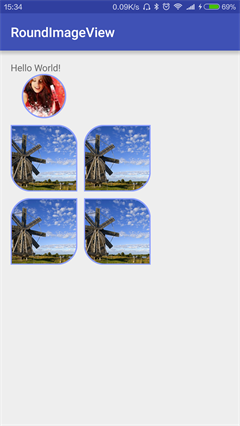
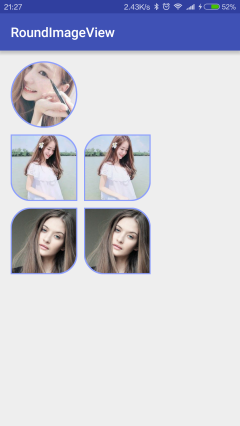
network supported

diff --git a/roundimageview/src/main/java/com/beiing/roundimage/AbsRoundImageView.java b/roundimageview/src/main/java/com/beiing/roundimage/AbsRoundImageView.java
@@ -68,8 +68,6 @@ public abstract class AbsRoundImageView extends ImageView {
 
     private void init() {
         mBitmapPaint = new Paint(Paint.ANTI_ALIAS_FLAG);
-        mBitmapPaint.setStyle(Paint.Style.FILL);
-        mBitmapPaint.setColor(borderColor);
 
         rect = new RectF();
         roundPath = new Path();
@@ -85,14 +83,26 @@ public abstract class AbsRoundImageView extends ImageView {
     protected void onLayout(boolean changed, int left, int top, int right, int bottom) {
         super.onLayout(changed, left, top, right, bottom);
         if(changed){
-            initRoundPath();
             initBorderPath();
+            initRoundPath();
         }
     }
 
-    protected abstract void initRoundPath();
+    /**
+     * 获取图片区域纯颜色Bitmap
+     * @return
+     */
+    protected abstract Bitmap getRoundBitmap();
 
+    /**
+     * 初始化边框Path
+     */
     protected abstract void initBorderPath();
+
+    /**
+     * 初始化图片区域Path
+     */
+    protected abstract void initRoundPath();
 
     private void drawBorder(Canvas canvas) {
         borderPaint.setStyle(Paint.Style.STROKE);
@@ -102,24 +112,23 @@ public abstract class AbsRoundImageView extends ImageView {
 
     @Override
     protected void onDraw(Canvas canvas) {
-        Drawable mDrawable = getDrawable();
-        if(!isInEditMode() && mDrawable != null){
-//            Bitmap bitmap = getBitmapFromDrawable(mDrawable);
-            //拿到Drawable
-            Drawable drawable = getDrawable();
-            //获取drawable的宽和高
-            int dWidth = drawable.getIntrinsicWidth();
-            int dHeight = drawable.getIntrinsicHeight();
-            Bitmap bitmap;
-            if (drawable != null) {
-                //创建bitmap
-                bitmap = Bitmap.createBitmap(getWidth(), getHeight(),
-                        Bitmap.Config.ARGB_8888);
-                float scale = 1.0f;
-                //创建画布
-                Canvas drawCanvas = new Canvas(bitmap);
-                drawable.draw(drawCanvas);
+        drawImage(canvas);
+        drawBorder(canvas);
+    }
 
+    private void drawImage(Canvas canvas) {
+        Drawable drawable = getDrawable();
+        if(!isInEditMode() && drawable != null) {
+            try {
+                Bitmap bitmap;
+                if (drawable instanceof ColorDrawable) {
+                    bitmap = Bitmap.createBitmap(2, 2, Bitmap.Config.ARGB_8888);
+                } else {
+                    bitmap = Bitmap.createBitmap(drawable.getIntrinsicWidth(), drawable.getIntrinsicHeight(), Bitmap.Config.ARGB_8888);
+                }
+                Canvas drawCanvas = new Canvas(bitmap);
+                drawable.setBounds(0, 0, drawCanvas.getWidth(), drawCanvas.getHeight());
+                drawable.draw(drawCanvas);
 
                 Bitmap roundBm = getRoundBitmap();
                 mBitmapPaint.reset();
@@ -128,116 +137,12 @@ public abstract class AbsRoundImageView extends ImageView {
                 //绘制形状
                 drawCanvas.drawBitmap(roundBm, 0, 0, mBitmapPaint);
                 mBitmapPaint.setXfermode(null);
-                //将准备好的bitmap绘制出来
+                //绘制图片
                 canvas.drawBitmap(bitmap, 0, 0, mBitmapPaint);
+            } catch (Exception e) {
+                e.printStackTrace();
             }
-
-
-
-//            //1.绘制形状
-//            canvas.drawARGB(0, 0, 0, 0);
-//            final int color = 0xffffffff;
-//            mBitmapPaint.setColor(color);
-//            canvas.drawPath(roundPath, mBitmapPaint);
-//
-//            mBitmapPaint.reset();
-//            mBitmapPaint.setFilterBitmap(false);
-//            mBitmapPaint.setXfermode(xFermode);
-//
-//            //2.绘制图片
-////            canvas.drawBitmap(bitmap, 0, 0,  mBitmapPaint);
-//
-//            mBitmapPaint.setXfermode(null);
-
-
-            drawBorder(canvas);
         }
-
-
-
-
-
-//        if (!isInEditMode() && mDrawable instanceof BitmapDrawable) {
-//            Paint paint = ((BitmapDrawable) mDrawable).getPaint();
-//            Rect bitmapBounds = mDrawable.getBounds();
-//            rect.set(bitmapBounds);
-//            int saveCount = canvas.saveLayer(rect, null,
-//                    Canvas.MATRIX_SAVE_FLAG |
-//                            Canvas.CLIP_SAVE_FLAG |
-//                            Canvas.HAS_ALPHA_LAYER_SAVE_FLAG |
-//                            Canvas.FULL_COLOR_LAYER_SAVE_FLAG |
-//                            Canvas.CLIP_TO_LAYER_SAVE_FLAG);
-//            getImageMatrix().mapRect(rect);
-//
-//            //src-in : 显示重叠部分上层  ->先绘制形状，再绘制图片
-//            paint.setAntiAlias(true);
-//            canvas.drawARGB(0, 0, 0, 0);
-//            final int color = 0xffffffff;
-//            paint.setColor(color);
-//            //1.绘制形状
-//            canvas.drawPath(roundPath, paint);
-//            Xfermode oldMode = paint.getXfermode();
-//            paint.setXfermode(xFermode);
-//            //2.绘制图片
-//            super.onDraw(canvas);
-//            paint.setXfermode(oldMode);
-//            canvas.restoreToCount(saveCount);
-//
-//            //绘制边框
-//            drawBorder(canvas);
-//        }
-
-
-    }
-
-
-    private Bitmap getBitmapFromDrawable(Drawable drawable) {
-        if (drawable == null) {
-            return null;
-        }
-
-        if (drawable instanceof BitmapDrawable) {
-            return ((BitmapDrawable) drawable).getBitmap();
-        }
-
-        try {
-            Bitmap bitmap;
-            if (drawable instanceof ColorDrawable) {
-                bitmap = Bitmap.createBitmap(2, 2, Bitmap.Config.ARGB_8888);
-            } else {
-                bitmap = Bitmap.createBitmap(drawable.getIntrinsicWidth(), drawable.getIntrinsicHeight(), Bitmap.Config.ARGB_8888);
-            }
-            Canvas canvas = new Canvas(bitmap);
-            drawable.setBounds(0, 0, canvas.getWidth(), canvas.getHeight());
-            drawable.draw(canvas);
-            return bitmap;
-        } catch (Exception e) {
-            e.printStackTrace();
-            return null;
-        }
-    }
-
-    /**
-     * 绘制形状
-     * @return
-     */
-    public Bitmap getRoundBitmap()
-    {
-        Bitmap bitmap = Bitmap.createBitmap(getWidth(), getHeight(),
-                Bitmap.Config.ARGB_8888);
-        Canvas canvas = new Canvas(bitmap);
-        Paint paint = new Paint(Paint.ANTI_ALIAS_FLAG);
-        paint.setColor(Color.BLACK);
-
-        canvas.drawCircle(getWidth() / 2, getWidth() / 2, getWidth() / 2,
-                    paint);
-
-        return bitmap;
-    }
-
-    public float dp2px(float dpValue){
-        float density = getContext().getResources().getDisplayMetrics().density;
-        return dpValue * density;
     }
 
 }

diff --git a/app/src/main/java/com/beiing/roundimage/MainActivity.java b/app/src/main/java/com/beiing/roundimage/MainActivity.java
@@ -2,23 +2,35 @@ package com.beiing.roundimage;
 
 import android.support.v7.app.AppCompatActivity;
 import android.os.Bundle;
+import android.widget.ImageView;
 
 import com.bumptech.glide.Glide;
+import com.squareup.picasso.Picasso;
+
+import org.xutils.image.ImageOptions;
+import org.xutils.x;
 
 public class MainActivity extends AppCompatActivity {
 
-    CircleImageView circleImageView;
+    CircleImageView circleImageViewGlide;
 
-    RoundImageView roundImageView;
+    RoundImageView roundImageViewPicasso;
+    RoundImageView roundImageViewXutils;
 
     @Override
     protected void onCreate(Bundle savedInstanceState) {
         super.onCreate(savedInstanceState);
         setContentView(R.layout.activity_main);
 
-        circleImageView = (CircleImageView) findViewById(R.id.circle_image);
-        roundImageView = (RoundImageView) findViewById(R.id.round_image);
+        circleImageViewGlide = (CircleImageView) findViewById(R.id.circle_image_glide);
+        roundImageViewPicasso = (RoundImageView) findViewById(R.id.round_image_picasso);
+        roundImageViewXutils = (RoundImageView) findViewById(R.id.round_image_xutils);
 
-        Glide.with(this).load(R.mipmap.head).into(circleImageView);
+        Glide.with(this).load("http://img2.imgtn.bdimg.com/it/u=1939271907,257307689&fm=21&gp=0.jpg").into(circleImageViewGlide);
+
+        Picasso.with(this).load("http://img0.imgtn.bdimg.com/it/u=2263418180,3668836868&fm=206&gp=0.jpg").fit().into(roundImageViewPicasso);
+
+        x.image().bind(roundImageViewXutils, "http://img0.imgtn.bdimg.com/it/u=2263418180,3668836868&fm=206&gp=0.jpg",
+                new ImageOptions.Builder().setCrop(true).build());
     }
 }

diff --git a/roundimageview/src/main/java/com/beiing/roundimage/CircleImageView.java b/roundimageview/src/main/java/com/beiing/roundimage/CircleImageView.java
@@ -2,6 +2,10 @@ package com.beiing.roundimage;
 
 import android.content.Context;
 import android.content.res.TypedArray;
+import android.graphics.Bitmap;
+import android.graphics.Canvas;
+import android.graphics.Color;
+import android.graphics.Paint;
 import android.graphics.Path;
 import android.util.AttributeSet;
 
@@ -23,7 +27,6 @@ public class CircleImageView extends AbsRoundImageView {
 
     public CircleImageView(Context context, AttributeSet attrs, int defStyleAttr) {
         super(context, attrs, defStyleAttr);
-
         super.initAttrs(attrs);
     }
 
@@ -32,6 +35,17 @@ public class CircleImageView extends AbsRoundImageView {
         super.onMeasure(widthMeasureSpec, heightMeasureSpec);
         int width = Math.max(getMeasuredWidth(), getMeasuredHeight());
         setMeasuredDimension(width, width);
+    }
+
+    @Override
+    protected Bitmap getRoundBitmap() {
+        Bitmap bitmap = Bitmap.createBitmap(getWidth(), getHeight(),
+                Bitmap.Config.ARGB_8888);
+        Canvas canvas = new Canvas(bitmap);
+        Paint paint = new Paint(Paint.ANTI_ALIAS_FLAG);
+        paint.setColor(Color.WHITE);
+        canvas.drawPath(roundPath, paint);
+        return bitmap;
     }
 
     @Override

diff --git a/roundimageview/src/main/java/com/beiing/roundimage/RoundImageView.java b/roundimageview/src/main/java/com/beiing/roundimage/RoundImageView.java
@@ -2,6 +2,10 @@ package com.beiing.roundimage;
 
 import android.content.Context;
 import android.content.res.TypedArray;
+import android.graphics.Bitmap;
+import android.graphics.Canvas;
+import android.graphics.Color;
+import android.graphics.Paint;
 import android.graphics.Path;
 import android.graphics.RectF;
 import android.util.AttributeSet;
@@ -34,7 +38,6 @@ public class RoundImageView extends AbsRoundImageView {
 
     public RoundImageView(Context context, AttributeSet attrs, int defStyleAttr) {
         super(context, attrs, defStyleAttr);
-
         initAttrs(attrs);
     }
 
@@ -48,6 +51,17 @@ public class RoundImageView extends AbsRoundImageView {
             leftBottomRadius = ta.getDimension(R.styleable.RoundImageView_leftBottomRadius, 0);
             ta.recycle();
         }
+    }
+
+    @Override
+    protected Bitmap getRoundBitmap() {
+        Bitmap bitmap = Bitmap.createBitmap(getWidth(), getHeight(),
+                Bitmap.Config.ARGB_8888);
+        Canvas canvas = new Canvas(bitmap);
+        Paint paint = new Paint(Paint.ANTI_ALIAS_FLAG);
+        paint.setColor(Color.WHITE);
+        canvas.drawPath(roundPath, paint);
+        return bitmap;
     }
 
     @Override

diff --git a/app/src/main/java/com/beiing/roundimage/App.java b/app/src/main/java/com/beiing/roundimage/App.java
@@ -1,0 +1,18 @@
+package com.beiing.roundimage;
+
+import android.app.Application;
+
+import org.xutils.x;
+
+/**
+ * Created by chenliu on 2016/8/22 0022<br/>.
+ * 描述：
+ */
+public class App extends Application {
+
+    @Override
+    public void onCreate() {
+        super.onCreate();
+        x.Ext.init(this);
+    }
+}

diff --git a/README.md b/README.md
@@ -18,6 +18,8 @@
 
 #### 使用
 
+ - #####  布局
+
 ```java
 <com.beiing.roundimage.CircleImageView
         android:layout_width="wrap_content"
@@ -29,7 +31,6 @@
         />
 
 ```
-
 
 ```java
  <com.beiing.roundimage.RoundImageView
@@ -46,6 +47,37 @@
                 />
 
 ```
+
+
+- ##### 测试常见的图片加载库加载
+
+- Glide
+
+```java
+ circleImageViewGlide = (CircleImageView) findViewById(R.id.circle_image_glide);
+ Glide.with(this).load("http://img2.imgtn.bdimg.com/it/u=1939271907,257307689&fm=21&gp=0.jpg").into(circleImageViewGlide);
+
+```
+
+- Picasso
+
+```java
+roundImageViewPicasso = (RoundImageView) findViewById(R.id.round_image_picasso);
+ Picasso.with(this).load("http://img0.imgtn.bdimg.com/it/u=2263418180,3668836868&fm=206&gp=0.jpg").fit().into(roundImageViewPicasso);
+
+```
+
+- xUtils3
+
+```java
+roundImageViewXutils = (RoundImageView) findViewById(R.id.round_image_xutils);
+x.image().bind(roundImageViewXutils, "http://img0.imgtn.bdimg.com/it/u=2263418180,3668836868&fm=206&gp=0.jpg",
+                new ImageOptions.Builder().setCrop(true).build());
+
+```
+
+
+#### 效果图
 
 ![screenshot](http://)
 
